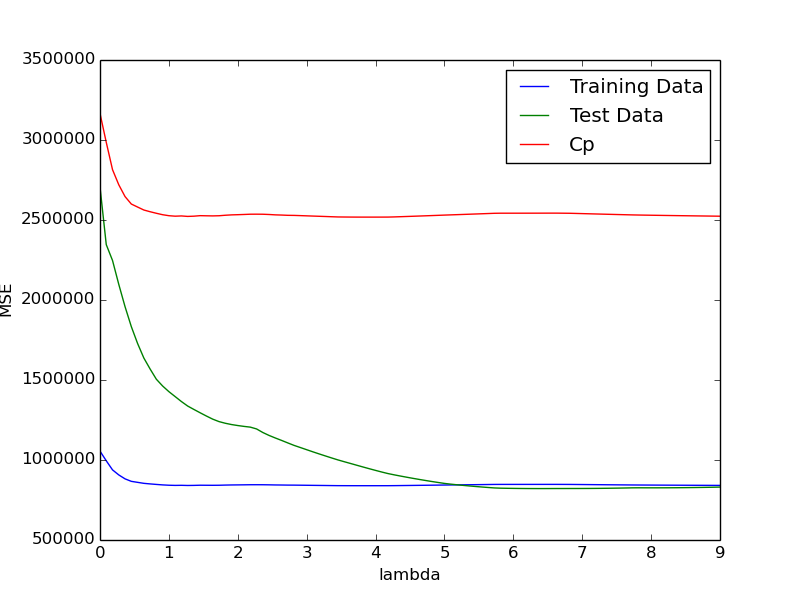
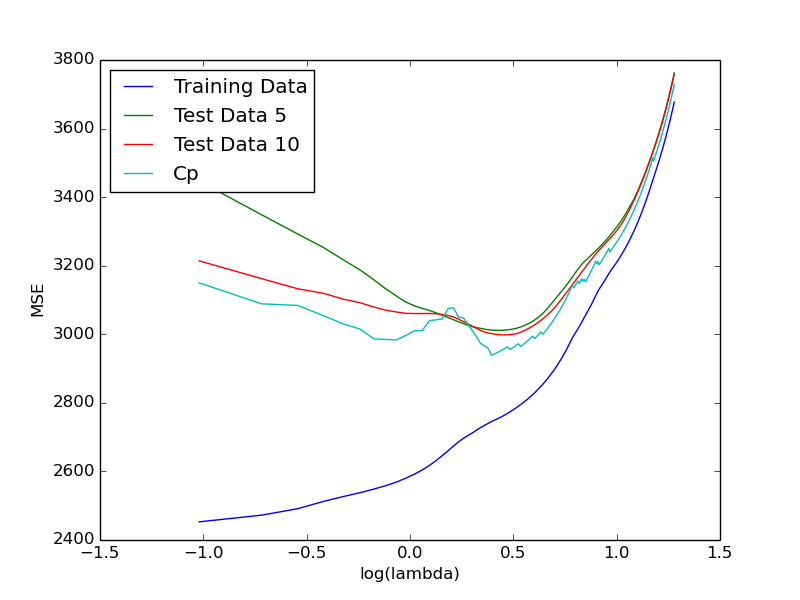
Fixed mse

diff --git a/week5/lasso.py b/week5/lasso.py
@@ -4,13 +4,12 @@ import pandas as pd
 import matplotlib.pyplot as plt
 import sklearn as sk
 from sklearn import datasets
-from sklearn.linear_model import Lasso
+from sklearn.linear_model import Lasso, lasso_path
 
 #Calculate mse of estimate
-def calc_mse(y_pred, y, X):
+def calc_mse(y_pred, y):
     mse = 0
-    xy = np.dot(X.T, y)
-    for i,j in zip(y,xy):
+    for i,j in zip(y,y_pred):
         mse+=np.square(i-j)
     mse=mse/len(y)
     return mse
@@ -23,41 +22,66 @@ def calc_s(y, lamb):
     return s
 
 #Calculate the cp statistic
-def calc_cp(y_pred, y, X):
-    mse = calc_mse(y_pred, y, X) 
-    sl = len([x for x in y_pred if x > 0])
-    sigma = mse
-    if len(y)!=sl:
-        sigma = mse/(len(y)-sl)
-    cp = mse + 2*sl*sigma/len(y)
+def calc_cp(y_pred, y, coef):
+    cp = calc_mse(y_pred, y) 
+    sl = np.count_nonzero(coef)
+    cp += 2*sl*cp/(len(y)-sl)
     return cp
+
+#Peform cross validation, splitting the sample into n parts. Return mse
+def cross_val(X, y, alpha, n):
+    X_split = np.array_split(X, n)
+    y_split = np.array_split(y, n)
+    err = 0
+    lasso = Lasso(alpha=alpha)
+
+    for i in xrange(n):
+        X_train = np.concatenate(X_split[:i] + X_split[(i+1):])
+        y_train = np.concatenate(y_split[:i] + y_split[(i+1):])
+        X_test, y_test = X_split[i], y_split[i]
+        lasso.fit(X_train, y_train)
+        y_pred = lasso.predict(X_test)
+        err+=sk.metrics.mean_squared_error(y_pred, y_test)
+        
+    return err/n
+
 
 #Read in data
 X = pd.read_csv('diabetesX.csv')
 col_names=X.columns.values.tolist()
-y = pd.read_csv('diabetesY.csv')
+y = pd.read_csv('diabetesY.csv', header=None)
 y = y.values
 X = X.values
-
-#Use the rest for X. Scale X by the size of the vector
+X,y = sk.utils.shuffle(X,y)
 X /= X.std(axis=0)
 n_samples = X.shape[0]
-X_train, y_train = X[:n_samples // 2], y[:n_samples // 2]
-X_test, y_test = X[n_samples // 2:], y[n_samples // 2:]
 
 #Calculate mse for test data, train data, and Cp estimate. Calc coefficients for all lambda
 plt.figure(1)
-mse_test=[]
 mse_train=[]
+mse_test_5=[]
+mse_test_10=[]
 mse_cp=[]
-vec_lambda=np.linspace(0,9,100)
+vec_lambda=np.linspace(0,19,200)
+vec_lambda=vec_lambda[1:]
 vec_coef=[]
+
+#Iterate over values of lambda
 for alpha in vec_lambda:
+    #Perform the lasso fit over whole sample
     lasso = Lasso(alpha=alpha)
-    y_pred = lasso.fit(X_train, y_train).predict(X_test)
-    mse_test.append(calc_mse(y_test,y_pred,X_test))
-    mse_train.append(calc_mse(y_train,y_pred,X_train))
-    mse_cp.append(calc_cp(y_train,y_pred,X_train))
+    lasso.fit(X, y)
+    y_pred = lasso.predict(X)
+    mse_train.append(calc_mse(y, y_pred))
+
+    #Perform lasso fit using cross-validation
+    mse_test_5.append(cross_val(X, y, alpha, 5))
+    mse_test_10.append(cross_val(X, y, alpha, 10))
+
+    #Calc mallow's cp
+    mse_cp.append(calc_cp(y,y_pred, lasso.coef_))
+
+    #Plot coefficients
     vec_coef.append(lasso.coef_)
     if alpha%2==0 and alpha!=0:
         plt.plot(lasso.coef_, label="Lambda: "+str(alpha))
@@ -65,16 +89,17 @@ for alpha in vec_lambda:
 #Plot coefficients values for various lambdas
 plt.ylabel('Lasso Coefficients')
 plt.legend(loc='upper right')
-plt.savefig('result_lasso_coef.png', format='png')
+plt.savefig('result_lasso_coef_test.png', format='png')
 
 #Plot mse
 plt.figure(2)
-plt.plot(vec_lambda, mse_train, label='Training Data')
-plt.plot(vec_lambda, mse_test, label='Test Data')
-plt.plot(vec_lambda, mse_cp, label='Cp')
+plt.plot(np.log10(vec_lambda), mse_train, label='Training Data')
+plt.plot(np.log10(vec_lambda), mse_test_5, label='Test Data 5')
+plt.plot(np.log10(vec_lambda), mse_test_10, label='Test Data 10')
+plt.plot(np.log10(vec_lambda), mse_cp, label='Cp')
 plt.ylabel('MSE')
-plt.xlabel('lambda')
-plt.legend(loc='upper right')
+plt.xlabel('log(lambda)')
+plt.legend(loc='upper left')
 plt.savefig('result_lasso_mse.png', format='png')
 
 #Plot coefficient values as a functino of lambda
@@ -86,4 +111,4 @@ for i in xrange(10):#len(vec_coef[:,0])):
     plt.ylabel('Coefficient Value')
     plt.xlabel('lambda')
     plt.legend()
-    plt.savefig('coef_lambda.png',format='png')
+    plt.savefig('coef_lambda_test.png',format='png')

diff --git a/week4/better_sgd.py b/week4/better_sgd.py
@@ -24,6 +24,55 @@ def calc_l(X, y, b):
     l = -(np.dot(y.T, np.log(w + 1e-7)) + np.dot((1 - y).T, np.log(1-w + 1e-7)))/X.shape[0] +  lam * np.linalg.norm(b, 1) #include penalty term on the loss function
     return l
 
+def calc_batch_size(b):
+
+    calc_times = []
+    l_change_vec = []
+    i = 10
+    batch_values = []
+    batch_max = 0
+
+    while i < 10000:
+        start = time()
+        X,y= read_file('data', 0, i)
+        l1 = calc_l(X,y,b)
+        b -= 0.1*calc_gradient(X, y, b)
+        l2 = calc_l(X,y,b)
+        end = time()
+
+        grad_time = end-start
+        l_change = l1-l2
+        calc_times.append(grad_time)
+        l_change_vec.append(l_change)
+        batch_values.append(i)
+        
+
+        if l_change/grad_time > batch_max:
+            batch_max = abs(l_change/grad_time)
+
+        i=i*1.5
+
+    plt.figure(2)
+    plt.semilogx(batch_values, calc_times)
+    plt.ylabel('Calculation Time')
+    plt.xlabel('log Batch Size')
+    plt.savefig('time_vs_batch.png', format = 'png')
+
+    plt.figure(3)
+    plt.semilogx(batch_values, l_change_vec)
+    plt.ylabel('Change in l')
+    plt.xlabel('Batch Size')
+    plt.savefig('changeL_vs_batch.png', format = 'png')
+
+    r = np.array(calc_times)/np.array(l_change_vec)
+    plt.figure(4)
+    plt.semilogx(batch_values, r)
+    plt.ylabel('Change in l / Calculation Time')
+    plt.xlabel('Batch Size')
+    plt.savefig('ratio_vs_batch.png', format = 'png')
+
+    return batch_max
+
 #Check the convergance of the log likliehood function within some criteria, e. Return true converged
 def test_converge(l, e):
     if len(l)>5: 
@@ -37,9 +86,8 @@ def test_converge(l, e):
         return 0 
 
 #Perform stocastic gradient descent on b. Give the likliehood at each step.
-def run_descent(X, y, b, e, step_size, l):
+def run_descent(X, y, b, e, step_size, batch_size, l):
 
-    batch_size = 5000 #Number of entries for batch
     hist_grad=0 #track gradient
     i = 0 #track iteration count
 
@@ -88,9 +136,14 @@ b = np.random.rand(3231963)
 X = []
 y = []
 l=[]
+
+#Determine optimal batch size
+batch_size = 500#calc_batch_size(b)
+print batch_size
+
 #Run adagrad, looping over the files
 start = time()
-b, l = run_descent(X, y, b, 0.0001, 0.1, l)
+b, l = run_descent(X, y, b, 0.0001, 0.1, batch_size, l)
 end = time()
 
 print "Time to complete: "+str(end-start)
